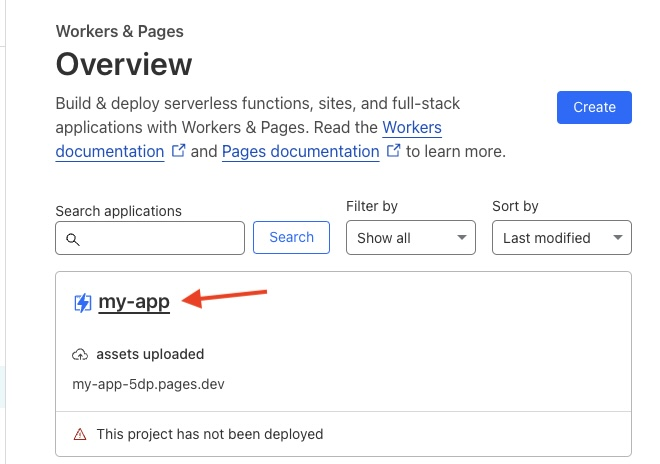
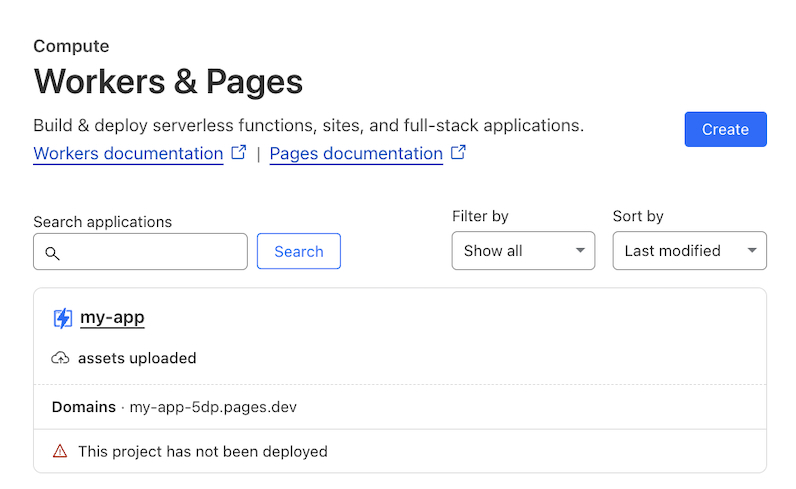
update cf docs (#11)

diff --git a/README.cloudflare/README.cloudflare.md b/README.cloudflare/README.cloudflare.md
@@ -1,12 +1,12 @@
 1. [Sign up for Cloudflare](https://www.cloudflare.com/) (they have a free tier)
 
-2. Create a Pages app to host the React client. From the Workers & Pages screen, choose "Create".
+2. Create a Pages app to host the React client. From the Compute - Workers & Pages screen, choose "Create".
    ![](./img/1%20-%20create%20pages.jpg)
 
-3. Select the "Pages" tab and click "Upload assets" from the "Create using direct upload" section.
+3. Select the "Pages" tab and click "Get started" in the "Use direct upload" section.
    ![](./img/2%20-%20direct%20upload.jpg)
 
-4. Name your app and click "Create". Note: You do not need to upload any assets and click "Deploy". The Wrangler CLI and GitHub actions will take care of that later.
+4. Name your app and click "Create". Note: You do not need to upload any assets and click "Deploy". The Wrangler CLI and GitHub actions will take care of that later. After creating, skip step 2 and go back to the overview screen.
 
    ![](./img/3a%20-%20name%20project.jpg)
 
@@ -19,21 +19,23 @@
    | Plaintext | NODE_VERSION | 22.9.0 |
    | Plaintext | PNPM_VERSION | 9 |
 
-7. Create a Workers app to host the prod server. From the Workers & Pages Overview page, click "Create" (like step 2), and then from the "Workers" tab, click "Create Worker".
+   ![](./img/settings%20add%20variables.jpg)
+
+7. Create a Workers app to host the prod server. From the Workers & Pages Overview page, click "Create" (like step 2), and then from the "Workers" tab, click "Get started" in the section "Start with Hello World!".
    ![](./img/7%20-%20create%20worker.jpg)
 
 8. Name your worker and click "Deploy". Note: Ignore the `worker.js` code, as it will be overwritten by our app when we run our deploy script.
    ![](./img/8%20-%20name%20worker%20and%20deploy.jpg)
 
-9. Add a KV namespace for your prod server storage. Navigate to Workers & Pages - KV, and click "Create a namespace".
+9. Add a KV namespace for your prod server storage. Navigate to Storage & Databases - KV, and click "Create".
    ![](./img/9%20-%20create%20namespace.jpg)
 
-10. Enter a name for your prod server kv namespace, and click "Add".
+10. Enter a name for your prod server kv namespace, and click "Create".
     ![](./img/10%20-%20add%20namespace.jpg)
 
 11. Repeat steps 7-10 for your stage server and kv storage. Note: It might be useful to use suffix `-stage` in your naming.
 
-12. On the right hand side of the Workers & Pages Overview screen, you can find your Account ID, as well as a link to "Manage API tokens":
+12. On the right hand side of the Compute - Workers & Pages Overview screen, you can find your Account ID, as well as a link to "Manage API tokens":
     ![](./img/11%20-%20account%20id.jpg)
 
 13. Create an API token for "Edit Cloudflare Workers", using the provided template.
